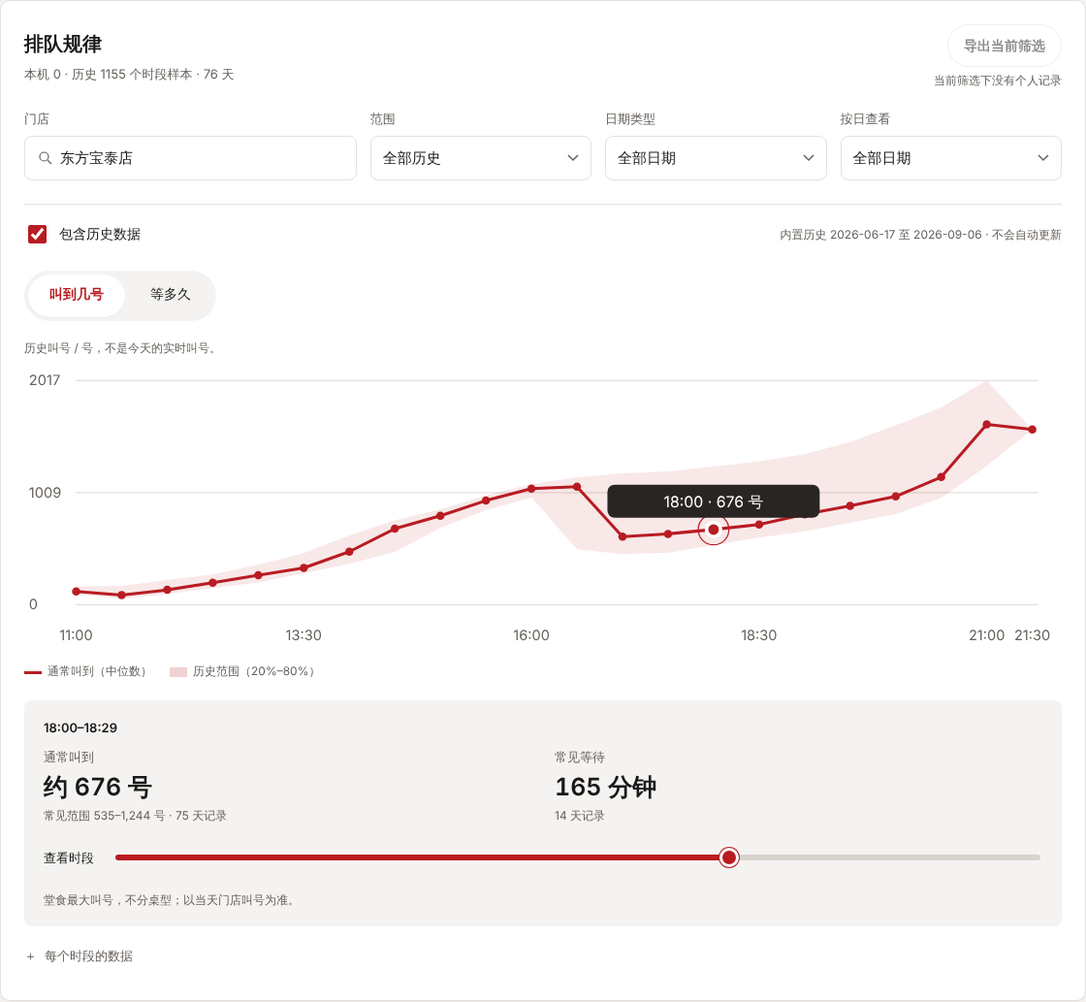
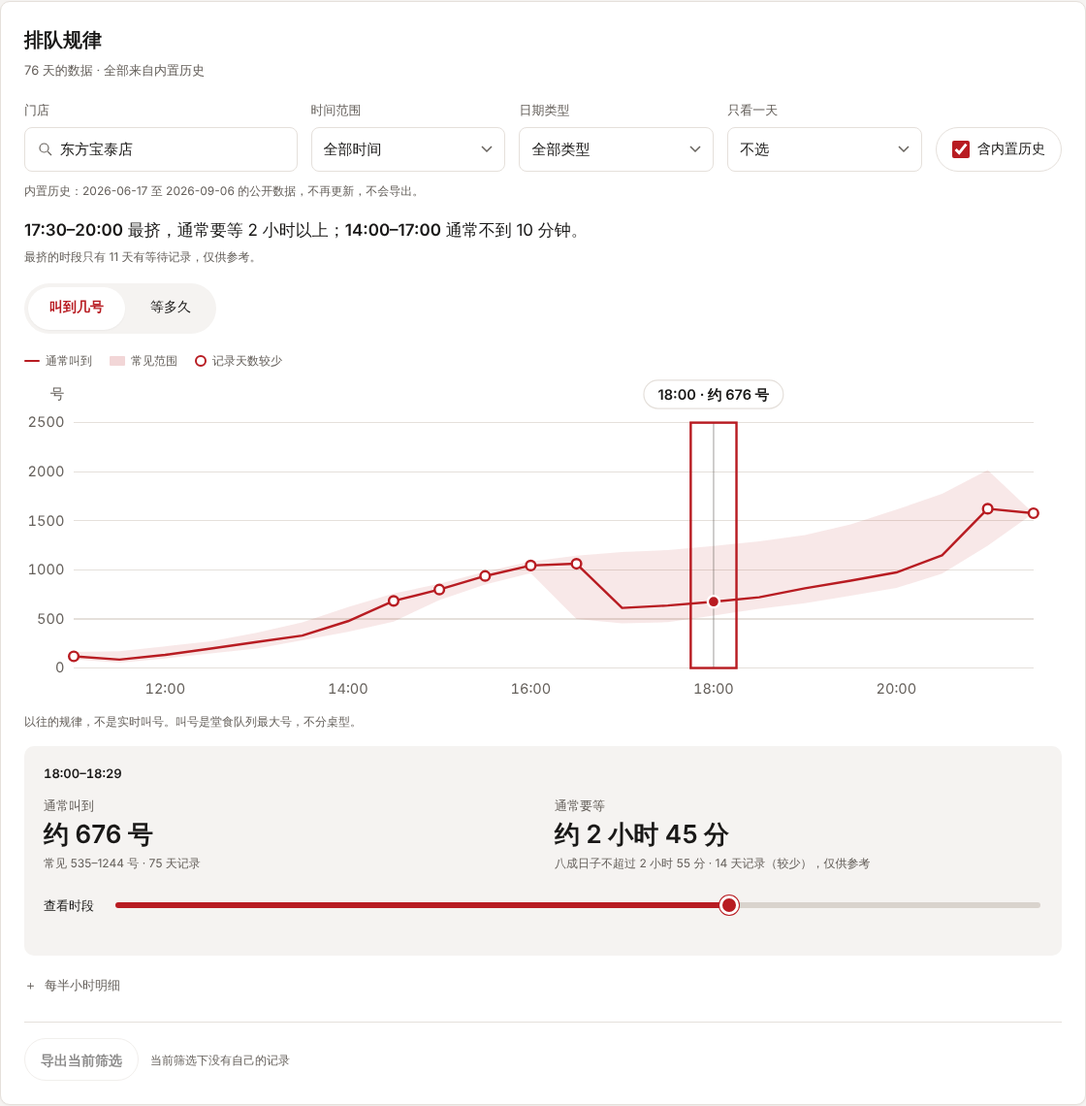
fix: 记录页评审问题修复与时区相关测试修正
- 高峰时段多数日子没有等待数据时，总结句说明“有等待记录的时段里”并指出缺口
- 暂停后不再提示会自动重试；今天与平时的等待差按显示的取整值计算
- 点击图表不再冻结自动刷新，操作筛选时仍更新记录状态；门店列表重建保留键盘焦点
- 手机端开始/暂停按钮不折行，中等宽度筛选换行不截断，“今天”标签避开提示框
- 测试用门店时区写“今天”，修正北京时间零点后必然失败的问题
- 重新生成 README 截图

Claude-Session: https://claude.ai/code/session_018XSinvL4QUziE8wKzDZ3Es

diff --git a/internal/app/webui/app.css b/internal/app/webui/app.css
@@ -9,7 +9,7 @@
 .main{padding-top:36px;min-height:calc(100vh - 165px)}.page-heading{display:flex;gap:20px;justify-content:space-between;align-items:center;margin-bottom:28px}.page-heading p{color:var(--text2);margin-top:8px}.card{background:var(--white);border:1px solid var(--border);border-radius:10px;padding:24px;box-shadow:var(--shadow)}.section-heading{display:flex;gap:12px;align-items:center;justify-content:space-between;margin-bottom:20px}.section-heading>.button{flex-shrink:0;white-space:nowrap}.section-heading p{margin-top:6px;font-size:13px}.queue-layout{display:grid;grid-template-columns:minmax(0,1.55fr) minmax(300px,1fr);gap:24px;align-items:start}
 .button{display:inline-flex;align-items:center;justify-content:center;gap:8px;border-radius:9999px;min-height:48px;padding:10px 22px;border:1px solid transparent;line-height:1.4;font-weight:600;font-size:14px;background:none;text-align:center}.primary{background:var(--red);color:#fff}.primary:hover:not(:disabled){background:var(--red-dark)}.secondary{border-color:var(--border);background:var(--white)}.secondary:hover:not(:disabled){background:var(--surface-2)}.quiet{color:var(--text2)}.quiet:hover{background:var(--surface-2)}.small{min-height:44px;padding:8px 16px}.wide{width:100%}.actions{display:flex;gap:10px;flex-wrap:wrap}.icon-button{width:44px;height:44px;border:0;border-radius:50%;font-size:26px;background:transparent;flex-shrink:0}.icon-button:hover{background:var(--surface-2)}
 .badge{display:inline-flex;align-items:center;padding:4px 10px;font-size:12px;border-radius:99px;background:var(--surface-2);color:var(--text2);white-space:nowrap}.badge.green{color:var(--green);background:var(--green-soft)}.badge.amber{color:var(--yellow);background:var(--yellow-soft)}.badge.red{color:var(--red-text);background:var(--red-soft)}.notice{padding:14px 16px;border-radius:8px;background:var(--surface-2);font-size:14px}.notice.error{color:var(--red-text);background:var(--red-soft);margin-bottom:18px}.empty{padding:36px 12px;color:var(--text2);text-align:center}.empty strong{display:block;color:var(--text);font-size:18px;margin-bottom:8px}.store-row{display:flex;align-items:center;justify-content:space-between;gap:8px 24px;padding:12px 0;border-bottom:1px solid var(--border)}.store-row:last-child{border:0}.store-row p{color:var(--text2);font-size:13px}.store-name{font-size:17px;font-weight:600;background:none;border:0;padding:6px 0;text-align:left;min-height:44px}.store-name:hover,.store-row[aria-current] .store-name{color:var(--red-text)}.store-fresh{display:flex;align-items:center;flex-wrap:wrap;gap:4px 0}.store-last{text-align:right;white-space:nowrap}
-.field{display:flex;flex-direction:column;gap:7px;color:var(--text2);font-size:13px;min-width:0}.field input,.field select,.field textarea{border:1px solid var(--border);border-radius:8px;background:var(--white);padding:10px 12px;min-height:46px;width:100%;color:var(--text);font-size:15px}.field textarea{resize:vertical}.fields{display:flex;gap:14px}.fields>.field{flex:1}.fields{margin:20px 0}.check-row{display:flex;align-items:center;gap:10px;min-height:44px;font-size:14px}.check-row input{width:19px;height:19px;accent-color:var(--red)}.filters{display:grid;grid-template-columns:minmax(180px,2fr) repeat(3,minmax(0,1fr)) auto;gap:14px;align-items:end;margin-bottom:10px}.analysis-card{margin-bottom:28px}.chart svg{width:100%;height:auto;display:block}.chart-label{font-family:var(--font);font-size:12px;fill:var(--text2)}
+.field{display:flex;flex-direction:column;gap:7px;color:var(--text2);font-size:13px;min-width:0}.field input,.field select,.field textarea{border:1px solid var(--border);border-radius:8px;background:var(--white);padding:10px 12px;min-height:46px;width:100%;color:var(--text);font-size:15px}.field textarea{resize:vertical}.fields{display:flex;gap:14px}.fields>.field{flex:1}.fields{margin:20px 0}.check-row{display:flex;align-items:center;gap:10px;min-height:44px;font-size:14px}.check-row input{width:19px;height:19px;accent-color:var(--red)}.filters{display:flex;flex-wrap:wrap;gap:14px;align-items:end;margin-bottom:10px}.filters>.field{flex:1 1 170px}.filters>.store-combobox{flex:2 1 220px}.filters>.history-chip{flex:none}.analysis-card{margin-bottom:28px}.chart svg{width:100%;height:auto;display:block}.chart-label{font-family:var(--font);font-size:12px;fill:var(--text2)}
 .table-wrap{overflow-x:auto;margin-top:12px}table{width:100%;border-collapse:collapse;font-size:13px;text-align:left}th,td{padding:10px;border-bottom:1px solid var(--border);white-space:nowrap}th{color:var(--text2);font-weight:500}details summary{cursor:pointer;min-height:44px;display:flex;align-items:center;color:var(--text2);font-size:13px}details summary:before{content:"＋";margin-right:8px}details[open] summary:before{content:"－"}
 .live-numbers{display:grid;grid-template-columns:repeat(3,1fr);gap:16px;margin:24px 0}.live-numbers strong{display:block;font-size:28px;font-weight:600}.live-numbers span{color:var(--text2);font-size:12px}.live-title{margin-top:12px}.live-title p{color:var(--text2);font-size:13px;margin-top:8px}.plan{background:var(--surface-2);border-radius:8px;padding:16px;margin:20px 0;color:var(--text2);font-size:13px}.plan strong{display:block;font-size:25px;line-height:1.5;color:var(--text);margin:4px 0}.queue-layout>.card>.caption{margin-top:14px}.ticket-result{margin-bottom:24px;border-top:3px solid var(--red)}.ticket-number{font-size:60px;line-height:1.3;color:var(--red-text);font-weight:600;letter-spacing:-2px;margin:12px 0}.ticket-result .section-heading{margin-bottom:0}
 .ticket-result>p{margin-top:8px}
@@ -17,7 +17,7 @@
 dialog{width:min(560px,calc(100% - 32px));max-height:calc(100dvh - 48px);overflow:auto;border:1px solid var(--border);border-radius:12px;padding:28px;color:var(--text);background:var(--white)}dialog::backdrop{background:var(--backdrop)}dialog[open]{animation:appear .15s ease-out}.dialog-heading,.dialog-footer{display:flex;align-items:center;justify-content:space-between;gap:16px}.dialog-heading{margin-bottom:16px}.dialog-footer{margin-top:22px}.picker-results{height:340px;overflow-y:auto;margin:18px -8px 0;padding:0 8px}.picker-row{display:flex;gap:12px;align-items:center;min-height:75px;padding:12px;border-bottom:1px solid var(--border);cursor:pointer}.picker-row:has(input:checked){background:var(--red-soft)}.picker-row input{width:18px;height:18px;accent-color:var(--red);flex-shrink:0}.picker-row b{display:block;font-size:15px}.picker-row small{display:block}.picker-row span{min-width:0}.toast{position:fixed;bottom:24px;left:50%;transform:translateX(-50%);z-index:100;color:#fff;background:var(--toast);border-radius:10px;padding:12px 20px;max-width:calc(100vw - 32px);box-shadow:0 4px 20px #0002}
 #auth-dialog>.muted,#auth-dialog>.field,#auth-dialog>.notice,#auth-progress{margin-bottom:18px}#auth-progress{margin-top:16px;font-size:14px;color:var(--text2)}#auth-import{margin-top:18px}#auth-import .button{margin-top:12px}#mobile-guide img{width:180px;height:180px;display:block;margin:12px auto}#mobile-guide a{color:var(--red-text);word-break:break-all}dl{margin:20px 0}dl div{display:flex;justify-content:space-between;gap:18px;padding:10px 0;border-bottom:1px solid var(--border)}dt{color:var(--text2)}dd{margin:0;font-weight:600;text-align:right}.skip-link{position:fixed;left:16px;top:-80px;background:var(--white);padding:12px;z-index:100}.skip-link:focus{top:12px}
 @keyframes appear{from{opacity:0;transform:translateY(6px)}to{opacity:1;transform:translateY(0)}}@media(prefers-reduced-motion:reduce){*{animation:none!important;scroll-behavior:auto!important}}
-@media(max-width:768px){.shell{padding-left:20px;padding-right:20px}.header-inner{flex-wrap:wrap;gap:12px;padding-top:16px;padding-bottom:14px}.brand{order:0}.settings-link{order:1}.tabs{order:2;width:100%}.tabs a{flex:1;text-align:center}.main{padding-top:26px}h1{font-size:26px}.page-heading{align-items:flex-start;gap:10px}.page-heading>.button{padding:10px 14px;white-space:nowrap}.queue-layout,.settings-grid{grid-template-columns:1fr}.card{padding:20px}.section-heading{align-items:flex-start}.filters{grid-template-columns:1fr 1fr;gap:12px}.filters>.store-combobox{grid-column:1/-1}.store-row{flex-direction:column;align-items:flex-start;gap:2px}.store-last{text-align:left;white-space:normal}.live-numbers{gap:10px}.live-numbers strong{font-size:25px}dialog{padding:20px}.dialog-footer{gap:10px}.dialog-footer .button{padding:10px 18px}.caption{line-height:1.8}.fields{gap:10px}}
+@media(max-width:768px){.shell{padding-left:20px;padding-right:20px}.header-inner{flex-wrap:wrap;gap:12px;padding-top:16px;padding-bottom:14px}.brand{order:0}.settings-link{order:1}.tabs{order:2;width:100%}.tabs a{flex:1;text-align:center}.main{padding-top:26px}h1{font-size:26px}.page-heading{align-items:flex-start;gap:10px}.page-heading>.button{padding:10px 14px;white-space:nowrap}.queue-layout,.settings-grid{grid-template-columns:1fr}.card{padding:20px}.section-heading{align-items:flex-start}.filters{display:grid;grid-template-columns:1fr 1fr;gap:12px}.filters>.store-combobox{grid-column:1/-1}.store-row{flex-direction:column;align-items:flex-start;gap:2px}.store-last{text-align:left;white-space:normal}.live-numbers{gap:10px}.live-numbers strong{font-size:25px}dialog{padding:20px}.dialog-footer{gap:10px}.dialog-footer .button{padding:10px 18px}.caption{line-height:1.8}.fields{gap:10px}}
 @media(max-width:380px){.shell{padding-left:14px;padding-right:14px}.brand b{font-size:15px}.card{padding:16px}.page-heading{flex-direction:column}.section-heading>.button{padding:8px 12px}}
 
 .sr-only{position:absolute;width:1px;height:1px;padding:0;margin:-1px;overflow:hidden;clip:rect(0,0,0,0);white-space:nowrap;border:0}
@@ -93,7 +93,7 @@ dialog{width:min(560px,calc(100% - 32px));max-height:calc(100dvh - 48px);overflo
 }
 
 .record-layout{display:grid;gap:20px;margin-bottom:28px}
-.record-status{display:flex;align-items:center;justify-content:space-between;gap:12px 20px;flex-wrap:wrap}.record-status>.button{flex-shrink:0}
+.record-status{display:flex;align-items:center;justify-content:space-between;gap:12px 20px;flex-wrap:wrap}.record-status>.button{flex-shrink:0;white-space:nowrap}
 .status-title{font-size:20px;line-height:1.5}.status{display:inline-flex;align-items:center;gap:10px;font-weight:600;color:var(--text)}.status:before{content:"";width:10px;height:10px;border-radius:50%;background:var(--track)}.status.green:before{background:var(--green)}.status.amber:before{background:var(--yellow)}
 .status-sub{margin-top:2px;font-size:14px;color:var(--text2)}
 .notice.warn{color:var(--yellow);background:var(--yellow-soft)}
@@ -106,4 +106,5 @@ dialog{width:min(560px,calc(100% - 32px));max-height:calc(100dvh - 48px);overflo
 .filters-note{margin-bottom:18px}
 .analysis-summary{margin:0 0 18px}.analysis-summary p:first-child{font-size:17px;line-height:1.6;color:var(--text)}.analysis-summary b{font-weight:600}.analysis-summary .caption{margin-top:4px}
 th.num,td.num{text-align:right;font-variant-numeric:tabular-nums}td.missing{color:var(--text2)}
-@media(max-width:768px){.record-status>.button{flex:1}.chart{min-height:200px}.record-settings .inline-field{width:100%}}
+@media(max-width:768px){.chart{min-height:200px}.record-settings .inline-field{width:100%}}
+@media(max-width:480px){.record-status>.button{flex:1 1 100%}}

diff --git a/internal/app/webui/app.js b/internal/app/webui/app.js
@@ -113,8 +113,14 @@ function recordQuery() {
   if(el('analysis-date').value)q.set('date',el('analysis-date').value);
   return q;
 }
-function recordsInteractionActive() {return !el('analysis-store-popup').hidden||!!document.activeElement?.closest('.analysis-card input, .analysis-card select, .analysis-card [data-record-point], .analysis-card summary, #record-interval');}
+function recordsInteractionActive() {return !el('analysis-store-popup').hidden||!!document.activeElement?.closest('.analysis-card input, .analysis-card select, .analysis-card [data-record-point]:focus-visible, .analysis-card summary, #record-interval');}
+// While the user is working in the chart or filters, a background tick refreshes only the
+// recording status, so it never goes stale and nothing moves under the pointer or focus.
+async function refreshServiceOnly() {
+  try{state.service=await api('/api/queue/service');renderService();}catch{}
+}
 async function refreshRecords({background=false}={}) {
+  if(background&&recordsInteractionActive())return refreshServiceOnly();
   const revision=++state.recordsRevision;
   const query=recordQuery().toString();
   const changed=state.recordsQuery!==query;
@@ -128,7 +134,8 @@ async function refreshRecords({background=false}={}) {
   try {
     const [service,records]=await Promise.all([api('/api/queue/service'),api('/api/records?'+query)]);
     const today=await loadTodayRecords(records);
-    if(revision!==state.recordsRevision||(background&&recordsInteractionActive()))return;
+    if(revision!==state.recordsRevision)return;
+    if(background&&recordsInteractionActive()){state.service=service;renderService();return;}
     state.service=service;state.records=records;state.recordsToday=today;state.analysisStores=records.available_stores||records.stores||[];
     for(const s of [...(records.available_stores||[]),...(records.stores||[])])state.stores.set(String(s.id),{...state.stores.get(String(s.id)),...s});
     showError('records-error',null);renderRecords();renderService();renderAnalysis();state.recordsQuery=recordQuery().toString();
@@ -167,7 +174,9 @@ function renderRecords() {
     const s=state.records.stores.find(row=>String(row.id)===id),latest=s?.latest,[tone,fresh]=storeFreshness(latest,state.service),current=id===charted;
     return '<div class="store-row"'+(current?' aria-current="true"':'')+'><div><button class="store-name" data-action="analyze-store" data-id="'+escapeHTML(id)+'">'+escapeHTML(storeName(id))+'<span aria-hidden="true"> ›</span></button><p class="store-fresh"><span class="dot '+tone+'" aria-hidden="true"></span>'+escapeHTML(fresh+(s?' · 共 '+s.samples+' 条':''))+(current?'<span class="tag">图表中</span>':'')+'</p></div>'+(latest?'<p class="store-last">'+escapeHTML(storeLatestText(latest))+'</p>':'')+'</div>';
   });
+  const focused=document.activeElement?.closest?.('#record-stores .store-name')?.dataset.id;
   setMarkup('record-stores',rows.join('')||'<div class="empty"><strong>先选常去的几家店</strong>不用连接账号，也能开始记录。</div>');
+  if(focused&&document.activeElement===document.body)[...el('record-stores').querySelectorAll('.store-name')].find(node=>node.dataset.id===focused)?.focus({preventScroll:true});
   el('data-path').textContent=state.service.data_path||'~/.sushiro/';
   setExportLink('backup-records',Number(state.records.total_record_count)>0,'/api/records/export?days=all');
   el('backup-hint').textContent=state.records.total_record_count?'全部 '+state.records.total_record_count+' 条个人记录，不含内置历史和账号凭证。':'还没有个人记录，开始记录后即可备份。';
@@ -191,8 +200,9 @@ function renderService() {
   el('repair-autostart').hidden=!auto.needs_update;el('repair-autostart').disabled=state.busy.has('service');
   el('record-settings').hidden=!ids.length&&!auto.enabled&&!auto.needs_update;
   // Only exceptions get a line here; the normal state is already in the status line.
-  const detail=data.state.last_error?'上次没记上：'+data.state.last_error+'。会自动重试。':(cfg.enabled&&data.state.paused_reason?pausedText(data.state.paused_reason):'')||(auto.needs_update?'程序位置变了，请点“更新自启动位置”。':'')||auto.error||(cfg.enabled&&!data.background_running?'后台没有运行，请先保持这个窗口打开。':'');
-  el('service-detail').textContent=detail;el('service-detail').hidden=!detail;el('service-detail').className='notice'+(data.state.last_error?' warn':'');
+  const err=cfg.enabled?data.state.last_error:'';
+  const detail=err?'上次没记上：'+err+'。会自动重试。':(cfg.enabled&&data.state.paused_reason?pausedText(data.state.paused_reason):'')||(auto.needs_update?'程序位置变了，请点“更新自启动位置”。':'')||auto.error||(cfg.enabled&&!data.background_running?'后台没有运行，请先保持这个窗口打开。':'');
+  el('service-detail').textContent=detail;el('service-detail').hidden=!detail;el('service-detail').className='notice'+(err?' warn':'');
 }
 function setExportLink(id,enabled,path) {
   const link=el(id);link.setAttribute('aria-disabled',String(!enabled));
@@ -429,7 +439,7 @@ function init() {
     refresh:refreshRecords,'pick-records':()=>openStorePicker('records'),'pick-queue':()=>openStorePicker('queue'),
     'retry-stores':searchStores,'save-stores':savePickedStores,'close-store':closeStorePicker,'remove-picked-store':button=>removePickedStore(button.dataset.id),
     'toggle-recording':toggleRecording,'check-update':checkUpdate,'restore-records':restoreRecords,'repair-autostart':repairAutostart,'quit-app':quitApp,'refresh-live':loadLive,
-    'analyze-store':button=>{selectAnalysisStore(button.dataset.id);el('analysis-title').scrollIntoView({block:'start'});},
+    'analyze-store':button=>{selectAnalysisStore(button.dataset.id);el('analysis-title').scrollIntoView({block:'start'});el('analysis-title').focus({preventScroll:true});},
     'live-history':()=>{const id=state.selectedStore;location.hash='#records';selectAnalysisStore(id).then(()=>el('analysis-title').scrollIntoView({block:'start'}));},
     'review-ticket':reviewTicket,'confirm-ticket':confirmTicket,'close-ticket':()=>{if(!state.busy.has('ticket'))el('ticket-dialog').close();},
     'query-ticket':queryTicket,'cancel-ticket':cancelTicket,'connect-account':()=>openAuth('settings'),'start-auth':startAuth,'stop-auth':stopAuth,'verify-auth':verifyAuth,'close-auth':closeAuth,'import-auth':importAuth,'auth-continue':finishAuth,
@@ -461,5 +471,5 @@ function init() {
 function refreshVisiblePage() {
   if(document.hidden||state.quitting||state.busy.size||document.querySelector('dialog[open]'))return;
   if(state.page==='queue'){loadLive();refreshTicketForecast();}
-  if(state.page==='records'&&!recordsInteractionActive())refreshRecords({background:true});
+  if(state.page==='records')refreshRecords({background:true});
 }

diff --git a/internal/app/webui/record_chart.js b/internal/app/webui/record_chart.js
@@ -49,12 +49,16 @@ function recordSummary(data) {
   const ok=points.filter(point=>point.days>=3);
   if(ok.length<3)return {text:'等待记录还少（'+(data.days||0)+' 天），还看不出哪段时间挤。',note:''};
   const thin=recordThinDays(ok,false),peak=ok.reduce((best,point)=>point.median>best.median?point:best);
-  if(peak.median<15)return {text:peak.median<5?'全天通常不用等。':'全天通常不用久等，最多'+waitWords(peak.median)+'。',note:''};
+  const label=run=>run[0].time+'–'+recordClock(recordMinute(run.at(-1).time)+30),span=run=>escapeHTML(label(run));
+  const waitDays=new Map(points.map(point=>[point.time,point.days])),calls=data.called_points||[],callThin=recordThinDays(calls,false);
+  const blind=chartSegments(calls.filter(c=>c.days>=callThin&&(waitDays.get(c.time)||0)<3&&c.time>ok[0].time&&c.time<ok.at(-1).time));
+  const prefix=blind.length?'有等待记录的时段里，':'',blindNote=blind.length?blind.map(label).join('、')+' 多数日子没有等待记录，没算进来，可能更挤，可以看叫号曲线。':'';
+  if(peak.median<15)return {text:(prefix||'全天')+(peak.median<5?'通常不用等。':'通常不用久等，最多'+waitWords(peak.median)+'。'),note:blindNote};
   const segments=chartSegments(ok),segment=segments.find(s=>s.includes(peak));
   let i=segment.indexOf(peak),j=i;
   while(i>0&&segment[i-1].median>=peak.median*.8)i--;
   while(j<segment.length-1&&segment[j+1].median>=peak.median*.8)j++;
-  const busy=segment.slice(i,j+1),span=run=>escapeHTML(run[0].time+'–'+recordClock(recordMinute(run.at(-1).time)+30));
+  const busy=segment.slice(i,j+1);
   let quiet=null;
   for(const s of segments){
     let run=[];
@@ -66,10 +70,10 @@ function recordSummary(data) {
   }
   const low=Math.min(...busy.map(p=>p.median)),high=Math.max(...busy.map(p=>p.median)),a=Math.round(low/5)*5,b=Math.round(high/5)*5;
   const wait=a===b?waitWords(low):low>=60?' '+Math.floor(low/60)+' 小时以上':' '+a+'–'+b+' 分钟';
-  let text='<b>'+span(busy)+'</b> 最挤，通常要等'+wait;
+  let text=prefix+'<b>'+span(busy)+'</b> 最挤，通常要等'+wait;
   if(quiet)text+='；<b>'+span(quiet)+'</b> 通常'+(Math.max(...quiet.map(p=>p.median))<5?'不用等':'不到 10 分钟');
   const fewest=Math.min(...busy.map(p=>p.days));
-  return {text:text+'。',note:fewest<thin?'最挤的时段只有 '+fewest+' 天有等待记录，仅供参考。':''};
+  return {text:text+'。',note:(fewest<thin?'最挤的时段只有 '+fewest+' 天有等待记录，仅供参考。':'')+blindNote};
 }
 function recordChartPoints() {
   return state.analysisMetric==='wait'?(state.records?.points||[]):(state.records?.called_points||[]);
@@ -97,7 +101,7 @@ function recordReadoutItem(called,point,today,singleDate,thin) {
   }
   let delta='';
   if(today){
-    const diff=Math.round(today.median-point.median);
+    const diff=Math.round(today.median)-(called?Math.round(point.median):Math.round(point.median/5)*5);
     delta=called?(diff?'（比平时'+(diff>0?'多 ':'少 ')+Math.abs(diff)+' 号）':'（和平时一样）'):(Math.abs(diff)<5?'（和平时差不多）':'（比平时'+(diff>0?'多 ':'少 ')+Math.abs(diff)+' 分钟）');
   }
   return '<div class="readout-item"><span class="readout-label">'+label+'</span><strong>'+escapeHTML(value)+'</strong>'+(details.length?'<small>'+escapeHTML(details.join(' · '))+'</small>':'')+(todayText?'<small class="readout-today">'+escapeHTML(todayText+delta)+'</small>':'')+'</div>';
@@ -193,8 +197,8 @@ function renderRecordChart(data) {
   const todayAt=new Map(todayPoints.map(point=>[point.time,point])),last=todayPoints.at(-1);
   let today='';
   if(last){
-    const lx=x(last),ly=y(last.median),near=lx>right-40;
-    today='<path class="chart-today" d="'+path('median',chartSegments(todayPoints))+'"/>'+chartSegments(todayPoints).filter(s=>s.length===1&&s[0]!==last).map(s=>'<circle class="chart-today-dot" cx="'+f(x(s[0]))+'" cy="'+f(y(s[0].median))+'" r="3"/>').join('')+'<circle class="chart-today-dot" cx="'+f(lx)+'" cy="'+f(ly)+'" r="4"/><text class="chart-label chart-direct" x="'+f(near?lx-8:lx+8)+'" y="'+f(ly-8)+'" text-anchor="'+(near?'end':'start')+'">今天</text>';
+    const lx=x(last),ly=y(last.median),near=lx>right-40,ty=ly-20<top?ly+18:ly-8;
+    today='<path class="chart-today" d="'+path('median',chartSegments(todayPoints))+'"/>'+chartSegments(todayPoints).filter(s=>s.length===1&&s[0]!==last).map(s=>'<circle class="chart-today-dot" cx="'+f(x(s[0]))+'" cy="'+f(y(s[0].median))+'" r="3"/>').join('')+'<circle class="chart-today-dot" cx="'+f(lx)+'" cy="'+f(ly)+'" r="4"/><text class="chart-label chart-direct" x="'+f(near?lx-8:lx+8)+'" y="'+f(ty)+'" text-anchor="'+(near?'end':'start')+'">今天</text>';
   }
   const focus='<line class="chart-crosshair" x1="-10" x2="-10" y1="'+top+'" y2="'+bottom+'"/><circle class="chart-selected" cx="-10" cy="-10" r="5"/>'+(last?'<circle class="chart-selected-today" cx="-10" cy="-10" r="4" display="none"/>':'');
   const xs=points.map(x);

diff --git a/internal/app/webui/index.html b/internal/app/webui/index.html
@@ -48,7 +48,7 @@
       </div>
     </section>
     <section class="card analysis-card" aria-labelledby="analysis-title">
-      <div class="section-heading"><div><h2 id="analysis-title">排队规律</h2><p id="analysis-source" class="muted" aria-live="polite">正在读取记录…</p></div></div>
+      <div class="section-heading"><div><h2 id="analysis-title" tabindex="-1">排队规律</h2><p id="analysis-source" class="muted" aria-live="polite">正在读取记录…</p></div></div>
       <div class="filters">
         <div id="analysis-store-picker" class="field store-combobox"><label for="analysis-store-search">门店</label><input id="analysis-store-search" type="search" role="combobox" aria-autocomplete="list" aria-expanded="false" aria-controls="analysis-store-options" placeholder="搜索店名或城市" autocomplete="off"><select id="analysis-store" hidden aria-hidden="true" tabindex="-1"><option value="">选择门店</option></select><div id="analysis-store-popup" class="store-popup" hidden><div id="analysis-store-options" role="listbox" aria-label="图表门店"></div><p id="analysis-store-empty" class="empty" hidden>没有找到，换个关键词试试。</p></div><span id="analysis-store-count" class="sr-only" role="status"></span></div>
         <label class="field">时间范围<select id="analysis-days"><option value="all">全部时间</option><option value="7">近 7 天</option><option value="28">近 28 天</option><option value="90">近 90 天</option><option value="365">近一年</option></select></label>

diff --git a/internal/app/flow_reliability_test.go b/internal/app/flow_reliability_test.go
@@ -189,7 +189,8 @@ func TestReservationsProbeRejectsUnknownSuccessBody(t *testing.T) {
 
 func TestPublicCollectionEvaluatesAlertsAfterTicketIssuedWithoutAuth(t *testing.T) {
 	reliabilityHome(t)
-	if err := SaveNetTicketPlan(NetTicketPlan{Status: "success", FiredDate: time.Now().Format("2006-01-02")}); err != nil {
+	// "Today" is the store's date (UTC+8), not the test machine's; they differ for 8 hours a day.
+	if err := SaveNetTicketPlan(NetTicketPlan{Status: "success", FiredDate: time.Now().In(SushiroTimezone).Format("2006-01-02")}); err != nil {
 		t.Fatal(err)
 	}
 	if !netTicketIssuedToday(time.Now()) {

diff --git a/specs/017-polish-dark-mode/verification.md b/specs/017-polish-dark-mode/verification.md
@@ -14,6 +14,12 @@
 - Linux / Windows / macOS（amd64、arm64）CLI 交叉编译，Windows 两种架构的 desktop 构建通过；Windows 资源重新生成为 4.0.2.0，清单检查通过。
 - `govulncheck` 未发现已知漏洞；staticcheck 剩余项为 `health.go`（待单独移除）、Windows 专用解析函数的误报和 `sampling.go` 的有意重读配置。
 
+## 记录页改版
+
+- 设计：三个独立方案评分合成；实施后由逻辑、数据表达、视觉、无障碍四个视角评审，每条问题再由独立核实者尝试反驳。确认 9 条，修 8 条：暂停后不再显示“会自动重试”警告；今天与平时的等待差按显示的取整值计算；高峰时段多数日子没有等待数据时，总结句改为“有等待记录的时段里…”并说明缺口（真实数据中 138 家店有 14 家受影响，如太阳宫凯德店）；手机端开始/暂停按钮不折行；769–1190px 宽度筛选换行不截断；“今天”标签避开提示框；点击图表不再冻结自动刷新，筛选或图表操作期间状态行仍每 30 秒更新；门店列表重建时保留键盘焦点。未采纳：恢复大号数字的等宽数字（按图表规范大号独立数字用比例数字）。
+- 修复既有测试缺陷：`TestPublicCollectionEvaluatesAlertsAfterTicketIssuedWithoutAuth` 用机器时区写“今天”，北京时间零点后（UTC 16–24 点）必然失败；改为按门店时区。`go test ./...` 在 UTC（含 `-race`）和 `TZ=Asia/Shanghai` 下均通过。
+- Node 行为测试新增：取整刻度、整点标签、记录少时段、总结句（缺口、少量数据、无数据、高峰无等待数据）、白话读数与差值、状态文案、没选店时隐藏设置行。浏览器 QA 新增：新用户不显示开始按钮、提示框文字、图表单一 Tab 位、总结句、状态行、点击图表后后台刷新仍运行、操作筛选时只刷新状态。真实内置历史 QA 新增：空心点与图例、按日查看不显示总结与范围、明细不出现“N–N 号”。
+
 ## 未验证
 
 - 本环境访问寿司郎公开接口返回 403 / 连接被重置，未用真实官方数据采集；该路径由上面的集成测试与既有单元测试覆盖。
